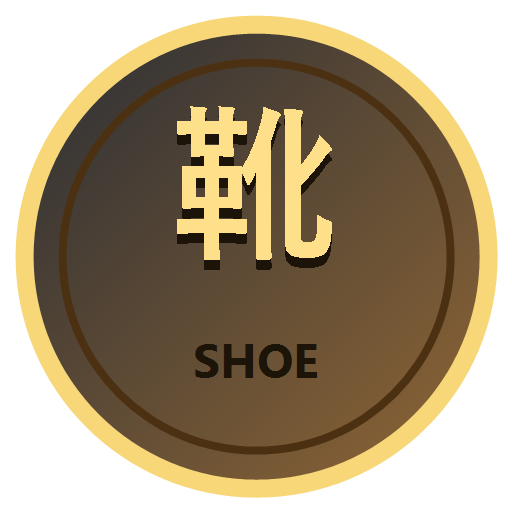
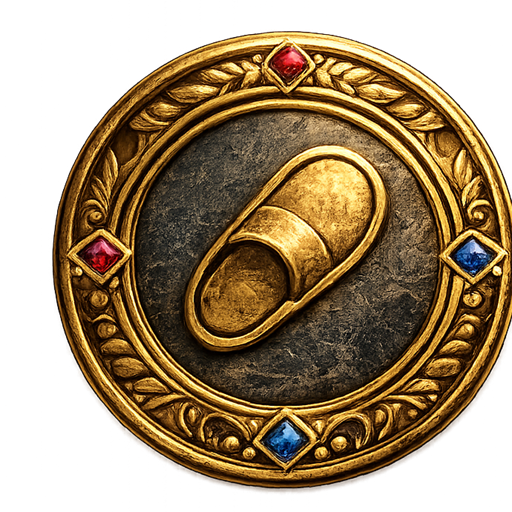
Replace coin toss art

diff --git a/game.js b/game.js
@@ -1,4 +1,4 @@
-const APP_VERSION = "[phone redacted]-mobile-fix-v1";
+const APP_VERSION = "2026.05.27-coin-art-v1";
 const VERSION_URL = "version.json";
 
 const slippers = [

diff --git a/sw.js b/sw.js
@@ -1,4 +1,4 @@
-const CACHE_NAME = "king-of-slipper-tsg-v13";
+const CACHE_NAME = "king-of-slipper-tsg-v14";
 const CORE_ASSETS = [
   "./",
   "./index.html",